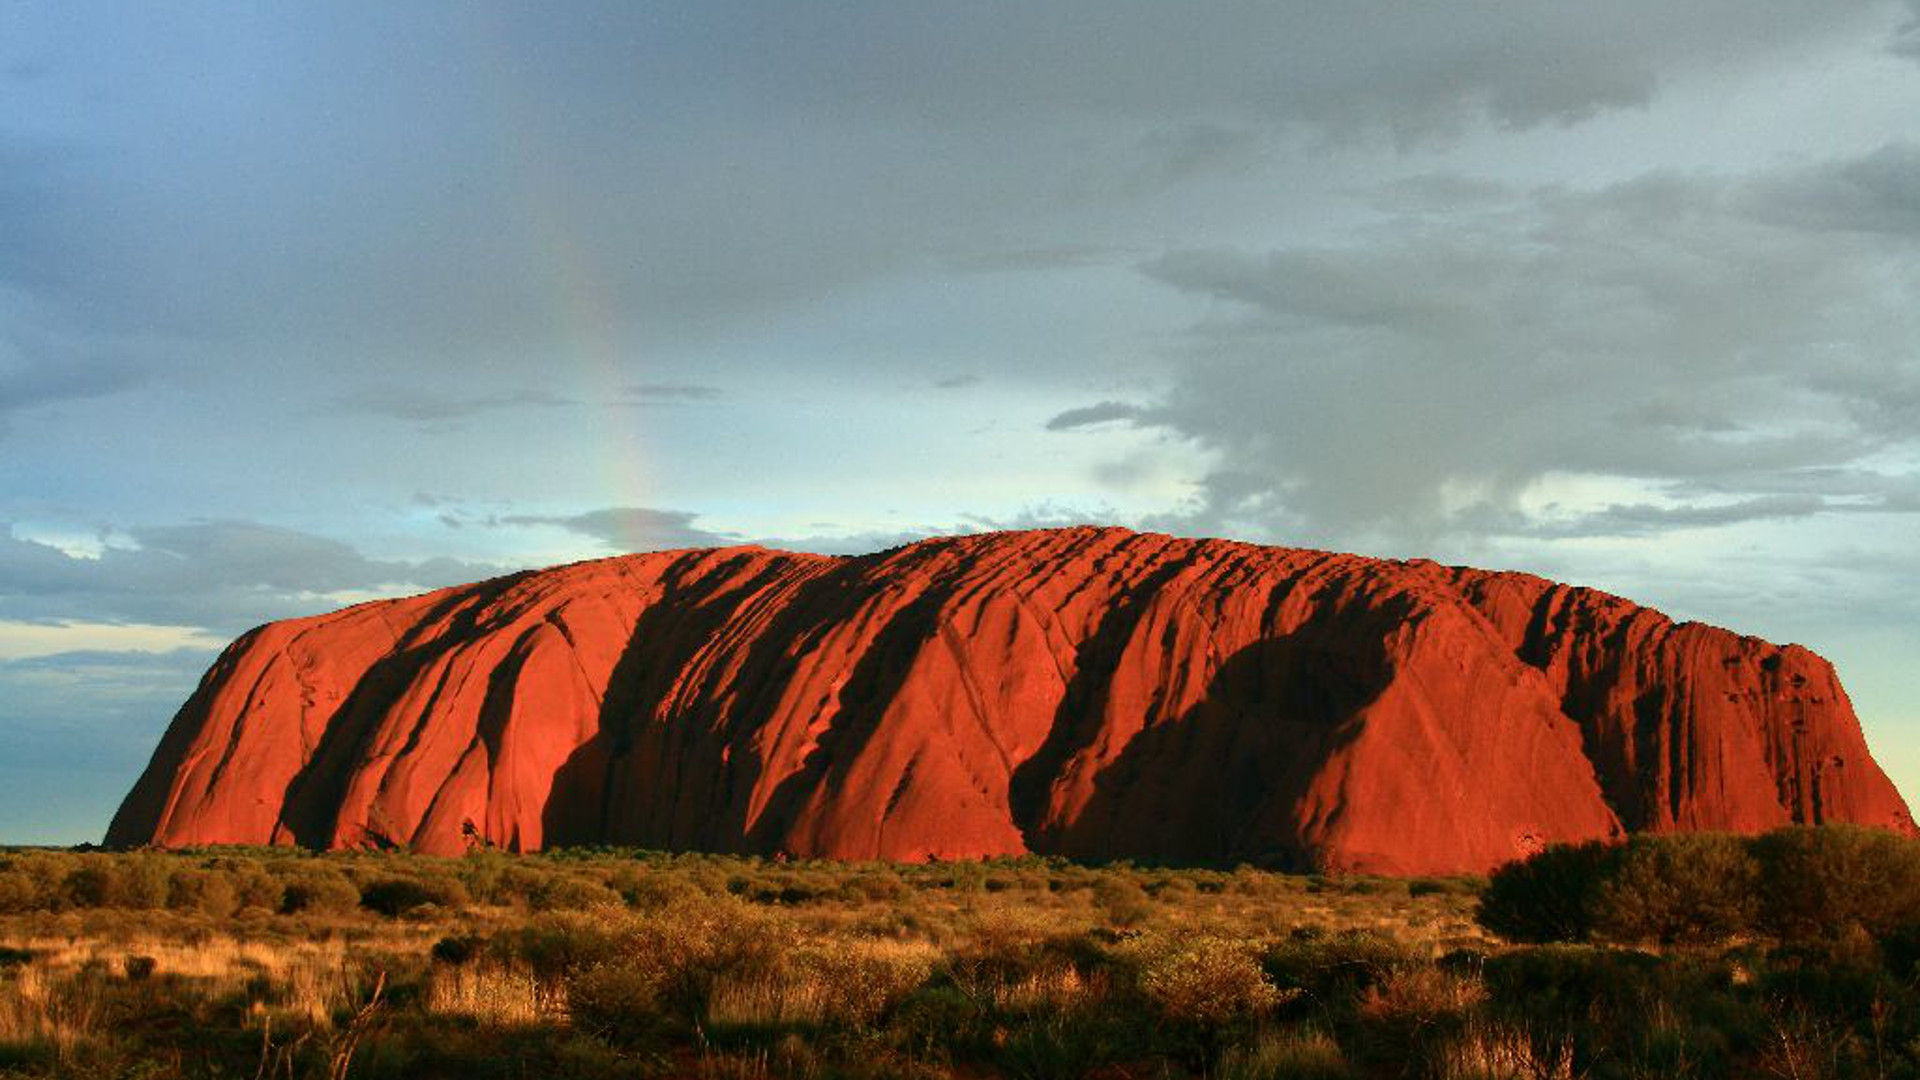
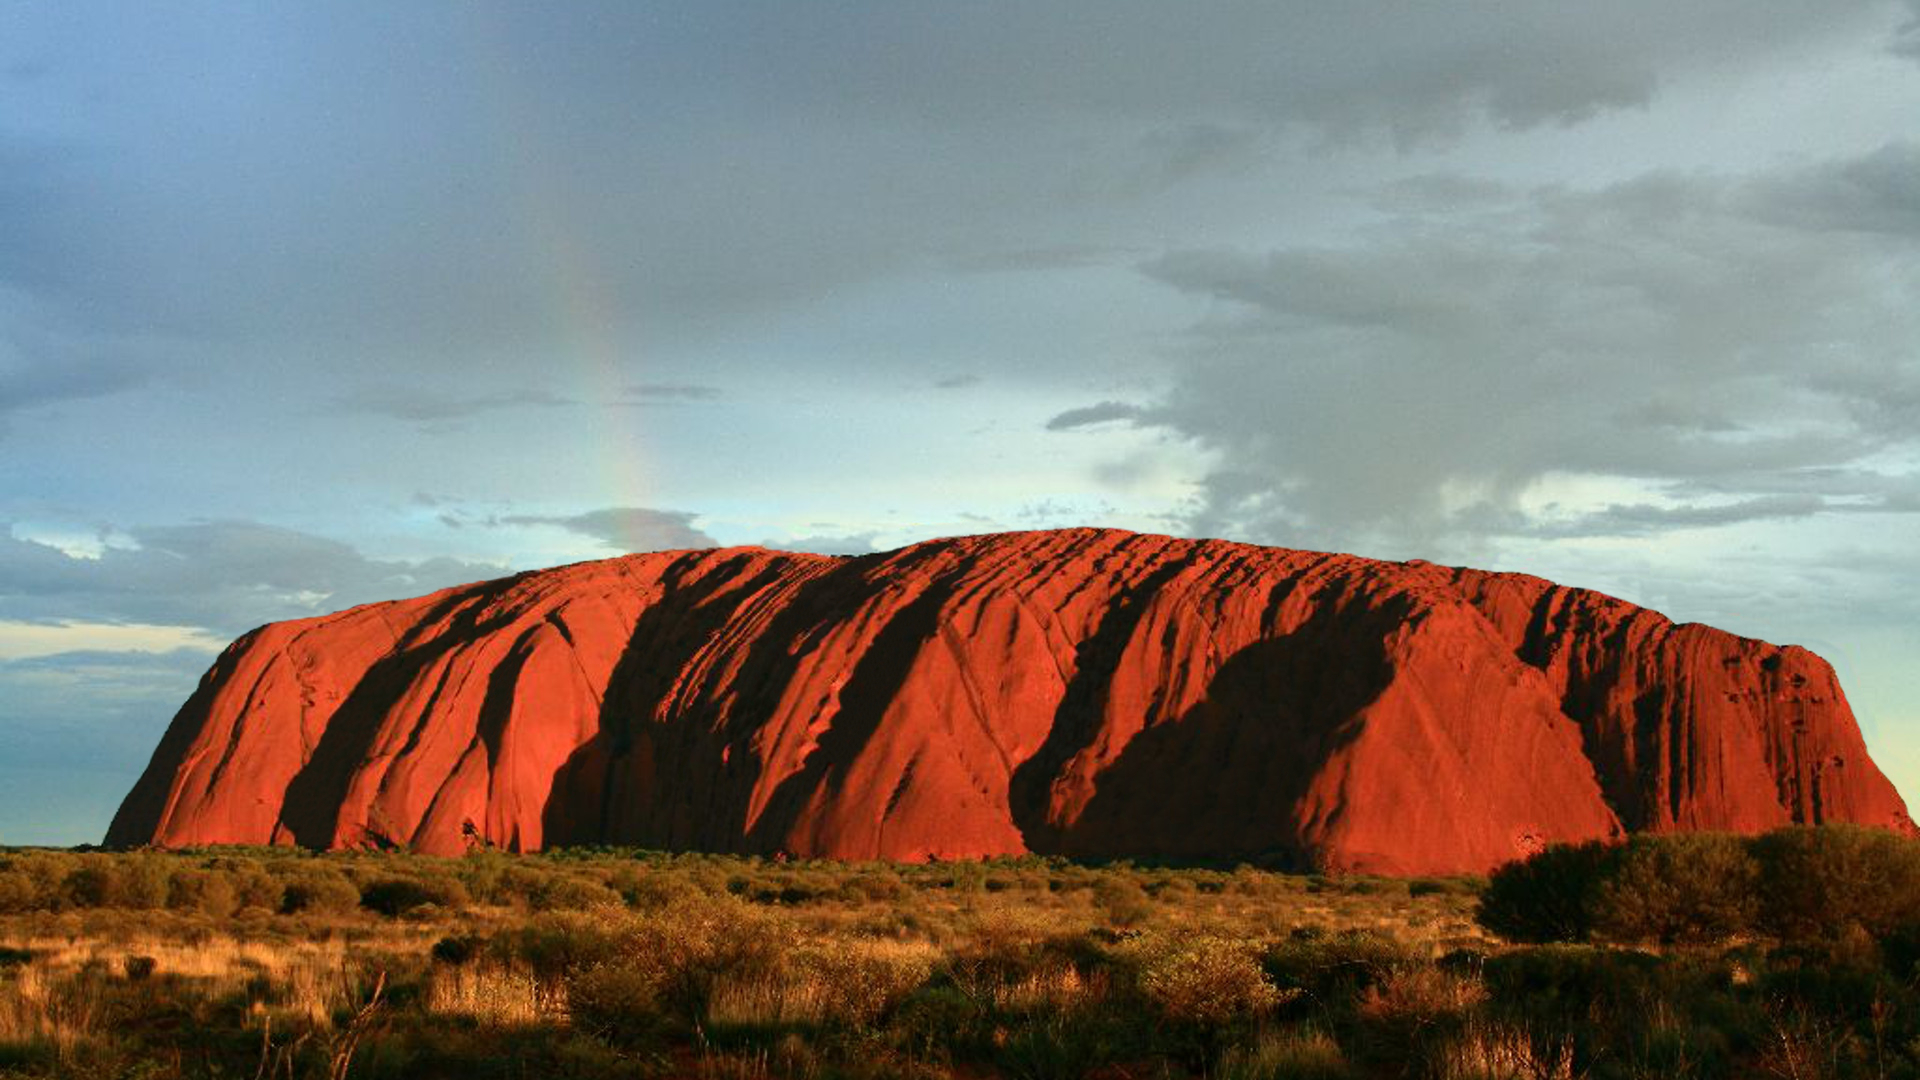
Photoshopped a picture and changed how the events list looks
Did some minor touchups on one of the background pictures since it
looked a bit blurry. Saved the original as the same name with an "O" at
the end.

Also added a little hyphen between the start and end times, along with a
change in the order of how the events list displays. It now shows the
most recently modified event on top, and so on down to the bottom.

diff --git a/includes/eventlist.php b/includes/eventlist.php
@@ -190,7 +190,7 @@ and open the template in the editor.
                         <?php 
                         //order: Color id, Title, Start date, Start time, End time, End date, Truncated description, Edit, Delete
                         
-                        $q1 = "SELECT pkEventid, nmTitle, dtStart, dtEnd, txDescription, nColorid FROM tblevents JOIN tblusersevents ON tblusersevents.fkUserid = ? WHERE tblevents.pkEventid = tblusersevents.fkEventid ORDER BY tblevents.dtStart ASC;";
+                        $q1 = "SELECT pkEventid, nmTitle, dtStart, dtEnd, txDescription, nColorid FROM tblevents JOIN tblusersevents ON tblusersevents.fkUserid = ? WHERE tblevents.pkEventid = tblusersevents.fkEventid ORDER BY tblevents.dtLastUpdated DESC;";
                         
                         $events = [];
                         
@@ -232,6 +232,9 @@ and open the template in the editor.
                                 $st = date_parse($events[$i]["dtStart"]);
                                 echo $st["hour"].":".$st["minute"];
                                 ?>
+                            </td>
+                            <td>
+                                -
                             </td>
                             <td id="el-content-event-time<?php echo $i+count($events); ?>" class="el-content-event-time">
                                 <?php
